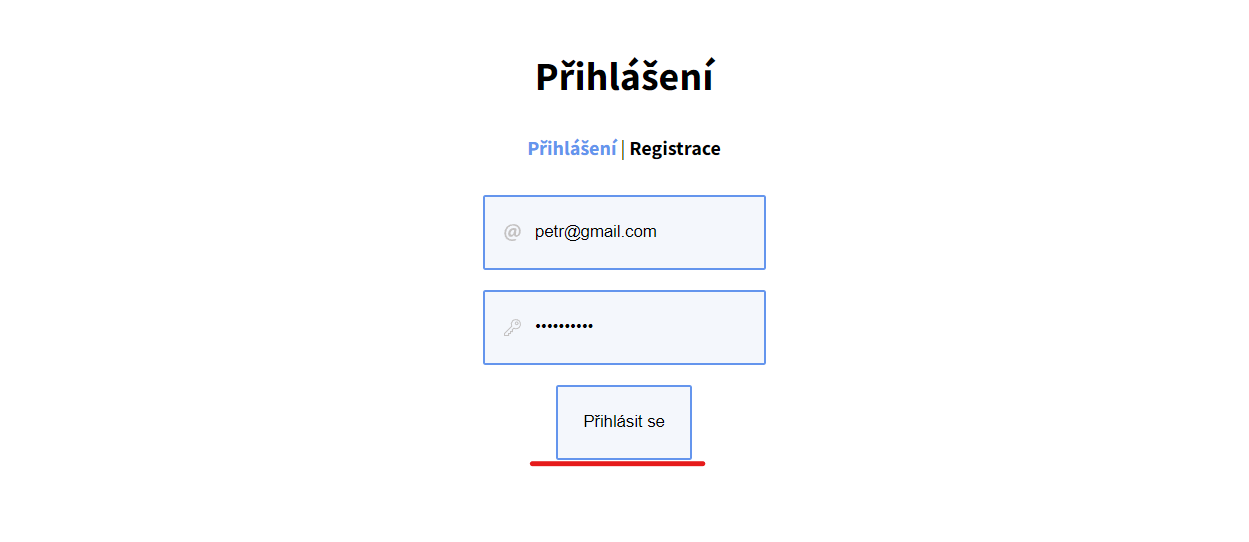
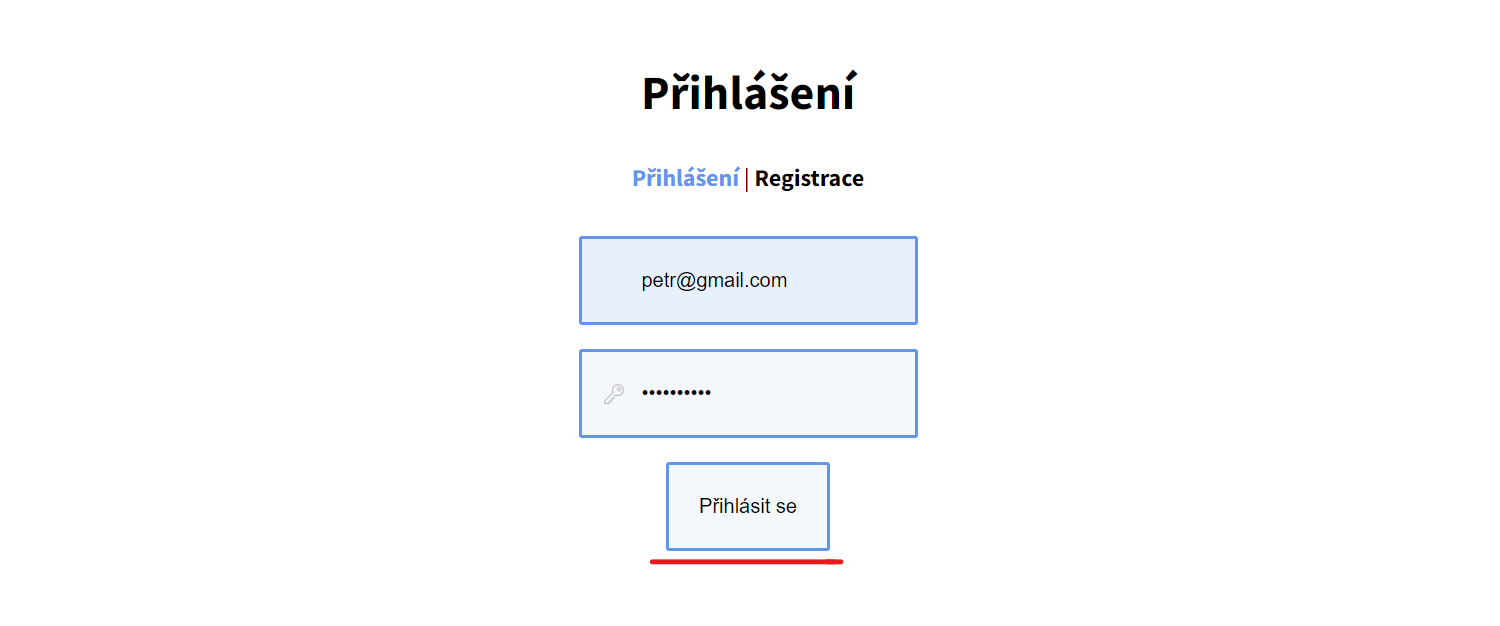
Oprava chyb

Changed region(s): [[0.3747, 0.3542, 0.6245, 0.9151], [0.4059, 0.0886, 0.5933, 0.1771], [0.4059, 0.2362, 0.5933, 0.3247]]

diff --git a/src/Spravce hesel/wwwroot/css/style.css b/src/Spravce hesel/wwwroot/css/style.css
@@ -197,6 +197,12 @@ header nav div.item:hover div.submenu {
 }
 
 @media screen and (max-width: 600px) {
+  input:not([type=checkbox]):not([type=submit]):not([type=button]) {
+    width: calc(100% - 64px) !important;
+  }
+  input[type=submit], input[type=button] {
+    width: 100% !important;
+  }
   main article.split section {
     width: initial;
     display: initial;
@@ -352,12 +358,6 @@ form input[type=range]::-moz-range-thumb {
   background-color: #6495ed;
   cursor: pointer;
 }
-form #posuvnikVystup {
-  height: 1em;
-  width: 1.1em;
-  padding: 0.5em;
-  margin-left: 1em;
-}
 
 button {
   border: 2px solid #6495ed;
@@ -453,6 +453,22 @@ footer {
   width: 100vw;
   max-width: calc(1000px - 2em);
 }
+footer > * {
+  display: inline-block;
+}
+footer #napoveda {
+  float: right;
+  text-decoration: none;
+}
+footer #napoveda div {
+  font-weight: bold;
+  color: #f1ab58;
+  padding-inline: 0.5em;
+  border: 2px solid #f1ab58;
+  border-radius: 2px;
+  line-height: calc(2em - 4px);
+  background-color: rgba(255, 138, 0, 0.1215686275);
+}
 
 .loginVyber a {
   text-decoration: none;
@@ -460,6 +476,13 @@ footer {
 }
 .loginVyber a.vybran {
   color: #6495ed;
+}
+
+.zobrazeniHesel {
+  text-align: center;
+}
+.zobrazeniHesel > .zobrazeniHeslo {
+  text-align: start;
 }
 
 .zobrazeniHeslo {
@@ -625,16 +648,22 @@ footer {
   width: 100%;
 }
 .pridat form input[type=email], .pridat form input[type=text] {
-  width: 70%;
+  width: calc(100% - 64px - 1em);
 }
 .pridat form input[type=text].server {
   background-image: url("../icons/svg/server.svg");
   padding-left: 40px;
 }
 .pridat form input#gen_vystup {
-  width: 50%;
+  width: calc(100% - 4em - 64px) !important;
   background-image: url("../icons/svg/key.svg");
   padding-left: 40px;
+}
+.pridat form #posuvnikVystup {
+  height: 1em;
+  width: 1.1em !important;
+  padding: 0.5em;
+  margin-left: 1em;
 }
 
 .upozorneni {

diff --git a/src/Spravce hesel/wwwroot/css/style.scss b/src/Spravce hesel/wwwroot/css/style.scss
@@ -106,13 +106,6 @@ form {
         background-color: $text-sekundarni;
         cursor: pointer;
     }
-
-    #posuvnikVystup {
-        height: 1em;
-        width: 1.1em;
-        padding: .5em;
-        margin-left: 1em;
-    }
 }
 
 button {
@@ -216,6 +209,24 @@ footer {
     margin: 0 auto;
     width: 100vw;
     max-width: calc(1000px - 2em);
+
+    > * {
+        display: inline-block;
+    }
+
+    #napoveda {
+        float: right;
+        text-decoration: none;
+
+        div {
+            font-weight: bold;
+            color: $upozorneni;
+            padding-inline: .5em;
+            @include border($upozorneni);
+            line-height: calc(2em - 4px);
+            background-color: $upozorneni-pozadi;
+        }
+    }
 }
 
 // Přihlášení a registrace
@@ -230,7 +241,15 @@ footer {
     }
 }
 
-// Zobrzování hesel
+// Zobrazování hesel
+.zobrazeniHesel {
+    text-align: center;
+
+    > .zobrazeniHeslo {
+        text-align: start;
+    }
+}
+
 .zobrazeniHeslo {
     @include border;
     width: calc(100% - 4px);
@@ -417,7 +436,7 @@ footer {
         width: 100%;
 
         input[type=email], input[type=text] {
-            width: 70%;
+            width: calc(100% - 64px - 1em);
         }
 
         input[type=text].server {
@@ -426,9 +445,16 @@ footer {
         }
 
         input#gen_vystup {
-            width: 50%;
+            width: calc(100% - 4em - 64px) !important;
             background-image: url('../icons/svg/key.svg');
             padding-left: 40px;
+        }
+
+        #posuvnikVystup {
+            height: 1em;
+            width: 1.1em !important;
+            padding: .5em;
+            margin-left: 1em;
         }
     }
 }

diff --git a/src/Spravce hesel/wwwroot/css/styleMobil.scss b/src/Spravce hesel/wwwroot/css/styleMobil.scss
@@ -1,4 +1,12 @@
 @media screen and (max-width: 600px) {
+    input:not([type=checkbox]):not([type=submit]):not([type=button]) {
+        width: calc(100% - 64px) !important;
+    }
+
+    input[type=submit], input[type=button] {
+        width: calc(100%) !important;
+    }
+
     main article.split section {
         width: initial;
         display: initial;
